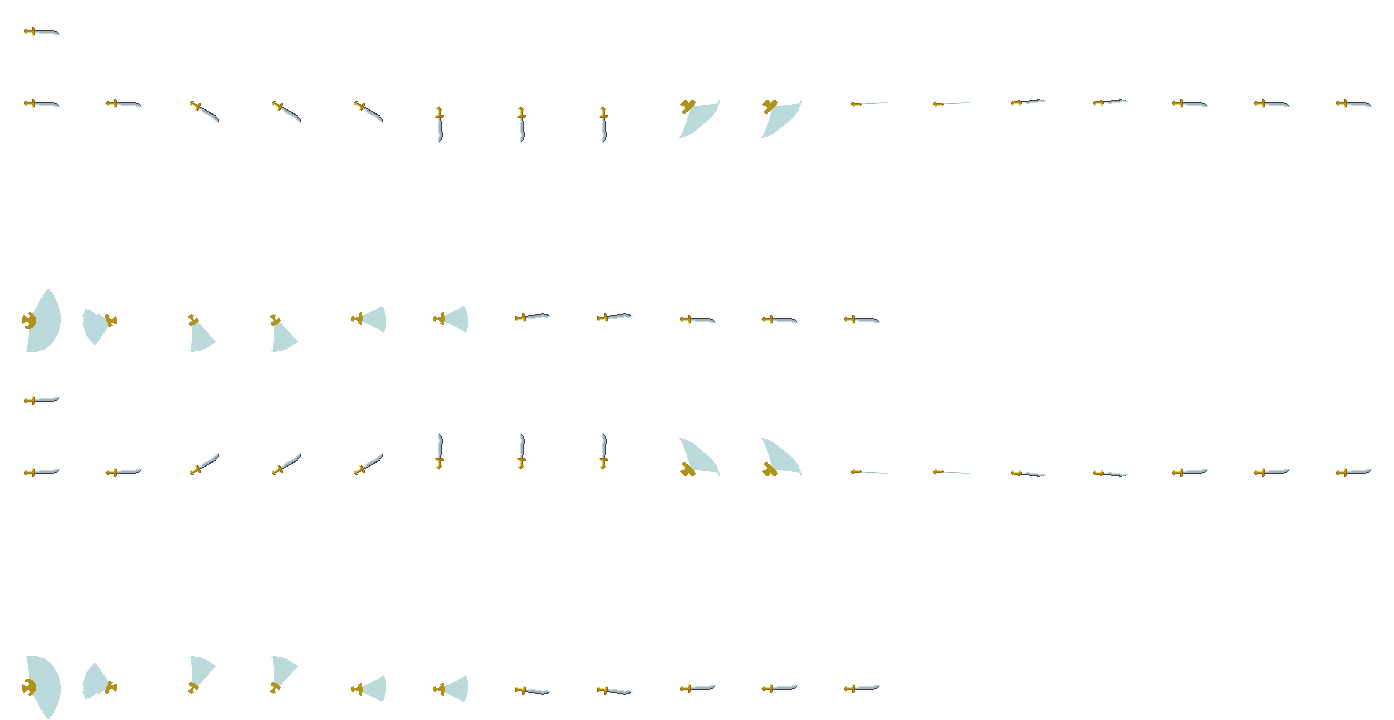
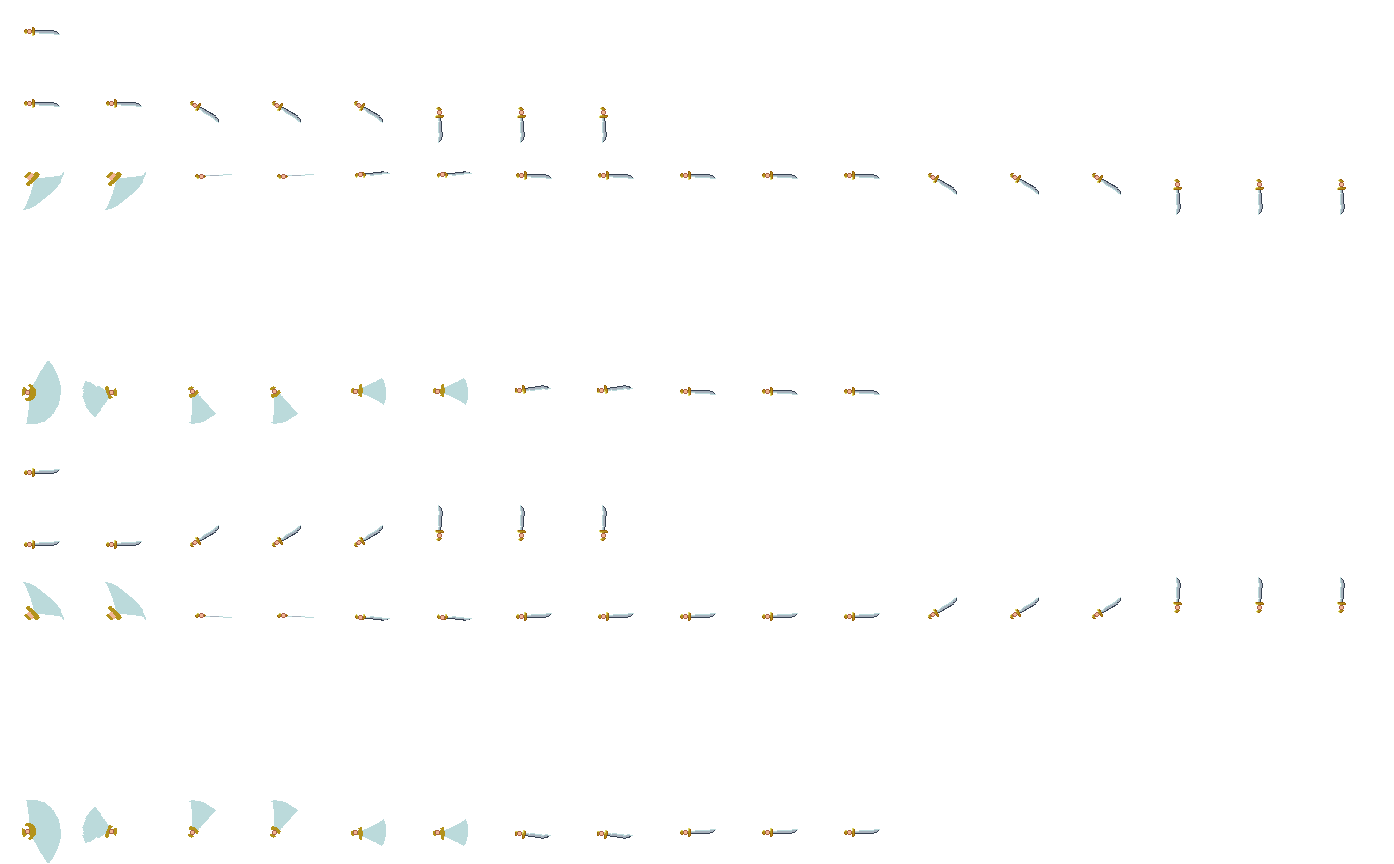
sword and hammer animations

diff --git a/Chronospace/src/main/java/ma/ac/emi/gamelogic/weapon/Weapon.java b/Chronospace/src/main/java/ma/ac/emi/gamelogic/weapon/Weapon.java
@@ -23,7 +23,7 @@ import ma.ac.emi.math.Vector3D;
 @Getter
 @Setter
 public class Weapon extends Entity{
-	private static final String[] ACTIONS = {"Idle", "Attacking", "Reload_Init", "Reload", "Reload_Finish", "Switching"};
+	private static final String[] ACTIONS = {"Idle", "Attacking_Init", "Attacking", "Reload_Init", "Reload", "Reload_Finish", "Switching"};
 	private static final String[] DIRECTIONS = {"Left", "Right"};
 	
 	private static final String TRIGGER_STOP = "Stop";
@@ -63,12 +63,19 @@ public class Weapon extends Entity{
 			for (String direction : DIRECTIONS) {
 				String stateName = action + "_" + direction;
 				AnimationState state = new AnimationState(stateName);
-				if(action.equals("Reload_Init") || action.equals("Reload_Finish") || action.equals("Switching")) state.setDoesLoop(false);
+				if(
+						action.equals("Attacking_Init") ||
+						action.equals("Reload_Init") || 
+						action.equals("Reload_Finish") || 
+						action.equals("Switching")
+					) 
+					state.setDoesLoop(false);
 				stateMachine.addAnimationState(state);
 			}
 		}
 		
-		addTransitions(TRIGGER_ATTACK, "Idle", "Attacking");
+		addTransitions(TRIGGER_ATTACK, "Idle", "Attacking_Init");
+		addTransitions(TRIGGER_ATTACK, "Attacking_Init", "Attacking");
 		addTransitions(TRIGGER_STOP, "Attacking", "Idle");
 		addTransitions(TRIGGER_RELOAD, "Idle", "Reload_Init");
 		addTransitions(TRIGGER_RELOAD, "Reload_Init", "Reload");
@@ -101,11 +108,14 @@ public class Weapon extends Entity{
 	@Override
 	public void setupAnimations() {
 		WeaponItemDefinition definition = (WeaponItemDefinition)(getWeaponItem().getItemDefinition());
-		spriteSheet = new SpriteSheet(AssetsLoader.getSprite(definition.getSpriteSheetPath()), definition.getSpriteWidth(), definition.getSpriteHeight());
+		WeaponItemDefinition.WeaponAnimationDetails animationDetails = definition.getAnimationDetails();
+		spriteSheet = new SpriteSheet(AssetsLoader.getSprite(animationDetails.spriteSheetPath), animationDetails.spriteWidth, animationDetails.spriteHeight);
 		if(spriteSheet.getSheet() == null) return;
 		
 		AnimationState idle_left = stateMachine.getAnimationStateByTitle("Idle_Left");
 		AnimationState idle_right = stateMachine.getAnimationStateByTitle("Idle_Right");
+		AnimationState attacking_init_left = stateMachine.getAnimationStateByTitle("Attacking_Init_Left");
+		AnimationState attacking_init_right = stateMachine.getAnimationStateByTitle("Attacking_Init_Right");
 		AnimationState attacking_left = stateMachine.getAnimationStateByTitle("Attacking_Left");
 		AnimationState attacking_right = stateMachine.getAnimationStateByTitle("Attacking_Right");
 		AnimationState reload_init_left = stateMachine.getAnimationStateByTitle("Reload_Init_Left");
@@ -117,96 +127,71 @@ public class Weapon extends Entity{
 		AnimationState switching_left = stateMachine.getAnimationStateByTitle("Switching_Left");
 		AnimationState switching_right = stateMachine.getAnimationStateByTitle("Switching_Right");
 
-		
-		for(Sprite sprite : spriteSheet.getAnimationRow(0, 1)) {
+		for(Sprite sprite : spriteSheet.getAnimationRow(0, animationDetails.idleLength)) {
 			idle_left.addFrame(sprite);
 		}
-		for(Sprite sprite : spriteSheet.getAnimationRow(5, 1)) {
+		for(Sprite sprite : spriteSheet.getAnimationRow(6, animationDetails.idleLength)) {
 			idle_right.addFrame(sprite);
 		}
-		for(Sprite sprite : spriteSheet.getAnimationRow(1, 8)) {
+		for(Sprite sprite : spriteSheet.getAnimationRow(1, animationDetails.attackingInitLength)) {
+			attacking_init_left.addFrame(sprite);
+		}
+		for(Sprite sprite : spriteSheet.getAnimationRow(7, animationDetails.attackingInitLength)) {
+			attacking_init_right.addFrame(sprite);
+		}
+		for(Sprite sprite : spriteSheet.getAnimationRow(2, animationDetails.attackingLength)) {
 			attacking_left.addFrame(sprite);
 		}
-		for(Sprite sprite : spriteSheet.getAnimationRow(6, 8)) {
+		for(Sprite sprite : spriteSheet.getAnimationRow(8, animationDetails.attackingLength)) {
 			attacking_right.addFrame(sprite);
 		}
-		for(Sprite sprite : spriteSheet.getAnimationRow(2, 12)) {
+		for(Sprite sprite : spriteSheet.getAnimationRow(3, animationDetails.reloadInitLength)) {
 			reload_init_left.addFrame(sprite);
 		}
-		for(Sprite sprite : spriteSheet.getAnimationRow(7, 12)) {
+		for(Sprite sprite : spriteSheet.getAnimationRow(9, animationDetails.reloadInitLength)) {
 			reload_init_right.addFrame(sprite);
 		}
-		for(Sprite sprite : spriteSheet.getAnimationRow(3, 4)) {
+		for(Sprite sprite : spriteSheet.getAnimationRow(4, animationDetails.reloadLength)) {
 			reload_left.addFrame(sprite);
 		}
-		for(Sprite sprite : spriteSheet.getAnimationRow(8, 4)) {
+		for(Sprite sprite : spriteSheet.getAnimationRow(10, animationDetails.reloadLength)) {
 			reload_right.addFrame(sprite);
 		}
-		for(Sprite sprite : spriteSheet.getAnimationRow(4, 12)) {
+		for(Sprite sprite : spriteSheet.getAnimationRow(5, animationDetails.reloadFinishLength)) {
 			reload_finish_left.addFrame(sprite);
 		}
-		for(Sprite sprite : spriteSheet.getAnimationRow(9, 12)) {
+		for(Sprite sprite : spriteSheet.getAnimationRow(11, animationDetails.reloadFinishLength)) {
 			reload_finish_right.addFrame(sprite);
 		}
 		
-		for(Sprite sprite : spriteSheet.getAnimationRow(4, 12)) {
+		for(Sprite sprite : spriteSheet.getAnimationRow(5, animationDetails.reloadFinishLength)) {
 			switching_left.addFrame(sprite);
 		}
-		for(Sprite sprite : spriteSheet.getAnimationRow(9, 12)) {
+		for(Sprite sprite : spriteSheet.getAnimationRow(11, animationDetails.reloadFinishLength)) {
 			switching_right.addFrame(sprite);
 		}
 		
-		/*
-		for(Sprite sprite : spriteSheet.getAnimationRow(0, 1)) {
-			idle_left.addFrame(sprite);
-		}
-		for(Sprite sprite : spriteSheet.getAnimationRow(5, 1)) {
-			idle_right.addFrame(sprite);
-		}
-		for(Sprite sprite : spriteSheet.getAnimationRow(1, 17)) {
-			attacking_left.addFrame(sprite);
-		}
-		for(Sprite sprite : spriteSheet.getAnimationRow(6, 17)) {
-			attacking_right.addFrame(sprite);
-		}
-		for(Sprite sprite : spriteSheet.getAnimationRow(2, 0)) {
-			reload_init_left.addFrame(sprite);
-		}
-		for(Sprite sprite : spriteSheet.getAnimationRow(7, 0)) {
-			reload_init_right.addFrame(sprite);
-		}
-		for(Sprite sprite : spriteSheet.getAnimationRow(3, 0)) {
-			reload_left.addFrame(sprite);
-		}
-		for(Sprite sprite : spriteSheet.getAnimationRow(8, 0)) {
-			reload_right.addFrame(sprite);
-		}
-		for(Sprite sprite : spriteSheet.getAnimationRow(4, 11)) {
-			reload_finish_left.addFrame(sprite);
-		}
-		for(Sprite sprite : spriteSheet.getAnimationRow(9, 11)) {
-			reload_finish_right.addFrame(sprite);
-		}
 		
-		for(Sprite sprite : spriteSheet.getAnimationRow(4, 11)) {
-			switching_left.addFrame(sprite);
-		}
-		for(Sprite sprite : spriteSheet.getAnimationRow(9, 11)) {
-			switching_right.addFrame(sprite);
-		}
-		*/
 	}
     
     public void attack() {
         if (getAttackStrategy() != null) {
-            getAttackStrategy().execute(this);
-            if(isInState("Idle")) stateMachine.trigger(TRIGGER_ATTACK);
+            if(isInState("Idle")) {
+            	stateMachine.trigger(TRIGGER_ATTACK);
+            }
+        	if(isInState("Attacking")) getAttackStrategy().execute(this);
+
         }
     }
     
 
 	public void stopAttacking() {
-		if(isInState("Attacking")) stateMachine.trigger(TRIGGER_STOP);
+		if(isInState("Attacking_Init")) {
+			stateMachine.trigger(TRIGGER_ATTACK);
+			stateMachine.trigger(TRIGGER_STOP);
+		}
+		else if(isInState("Attacking")) stateMachine.trigger(TRIGGER_STOP);
+
 	}
     
     public void draw(Graphics g) {
@@ -219,6 +204,8 @@ public class Weapon extends Entity{
         if(stateMachine.getCurrentAnimationState() != null) {
         	BufferedImage sprite = stateMachine.getCurrentAnimationState().getCurrentFrameSprite().getSprite();
         	g.drawImage(sprite, (int)(getBearer().getWeaponXOffset()-sprite.getWidth()/2), (int)(-sprite.getHeight()/2), null);
+        	g.drawString(String.valueOf(stateMachine.getCurrentAnimationState().getCurrentFrameIndex()), 0, - 30);
+        	if(stateMachine.getCurrentAnimationState().getTitle().equals("Attacking_Right")) System.out.println(String.valueOf(stateMachine.getCurrentAnimationState().getCurrentFrameIndex()));
         }else {
         	g.setColor(Color.gray);
         	g.fillRect(0, 0, 16, 8);
@@ -228,8 +215,15 @@ public class Weapon extends Entity{
     
     public void update(double step) {
     	WeaponItemDefinition def = (WeaponItemDefinition)(weaponItem.getItemDefinition());
-    	stateMachine.getAnimationStateByTitle("Attacking_Right").setPlaySpeed(17*def.getAttackSpeed()/24);
-    	stateMachine.getAnimationStateByTitle("Attacking_Left").setPlaySpeed(17*def.getAttackSpeed()/24);
+//    	System.out.println("Atttack animation length: " + def.getAnimationDetails().attackingLength);
+//    	System.out.println("Weapon attack speed: " + def.getAttackSpeed());
+//    	System.out.println("Play speed: " + def.getAnimationDetails().attackingLength*def.getAttackSpeed()/24);
+    	double playSpeed = def.getAnimationDetails().attackingLength*def.getAttackSpeed()/24;
+    	stateMachine.getAnimationStateByTitle("Attacking_Right").setPlaySpeed(playSpeed);
+    	stateMachine.getAnimationStateByTitle("Attacking_Left").setPlaySpeed(playSpeed);
+//    	stateMachine.getAnimationStateByTitle("Attacking_Init_Left").setPlaySpeed(playSpeed);
+//    	stateMachine.getAnimationStateByTitle("Attacking_Init_Right").setPlaySpeed(playSpeed);
+    	
     	if(isInState("Reload_Init"))
     		if(stateMachine.getCurrentAnimationState().isAnimationDone()) {
     			stateMachine.getCurrentAnimationState().reset();
@@ -246,16 +240,25 @@ public class Weapon extends Entity{
     			stateMachine.trigger(TRIGGER_STOP);
 
     		}
+    	if(isInState("Attacking_Init"))
+    		if(stateMachine.getCurrentAnimationState().isAnimationDone()) {
+    			stateMachine.getCurrentAnimationState().reset();
+    			stateMachine.trigger(TRIGGER_ATTACK);
+    			stateMachine.getCurrentAnimationState().reset();
+    			
+    		}
     			
     	
         setPos(getBearer().getPos());
         setTsla(getTsla() + step);
         
         if (getAmmo() == 0 && ((WeaponItemDefinition)weaponItem.getItemDefinition()).getMagazineSize() != 0) {
-        	System.out.println("ammo == 0");
         	if(!isInState("Reload")) {
-            	if(!isInState("Idle")) stateMachine.trigger(TRIGGER_STOP);
-            	stateMachine.trigger(TRIGGER_RELOAD);
+        		if(stateMachine.getCurrentAnimationState().isAnimationDone()) {
+        			stateMachine.getCurrentAnimationState().reset();
+        			if(!isInState("Idle")) stateMachine.trigger(TRIGGER_STOP);
+        			stateMachine.trigger(TRIGGER_RELOAD);
+        		}
         	}
 
             if(stateMachine.getCurrentAnimationState().getTitle().equals("Reload_Left") ||
@@ -291,7 +294,7 @@ public class Weapon extends Entity{
 
     public boolean isInState(String action) {
 		String currentState = stateMachine.getCurrentAnimationState().getTitle();
-		return currentState.startsWith(action + "_");
+		return currentState.equals(action+"_Left") || currentState.equals(action+"_Right");
 	}
     
     private boolean isLooking(String dir) {
@@ -320,6 +323,10 @@ public class Weapon extends Entity{
 			stateMachine.trigger(TRIGGER_STOP);
 		}
 		stateMachine.trigger(TRIGGER_SWITCH);
+	}
+	
+	public boolean isReloadingAnimation() {
+		return isInState("Reload") || isInState("Reload_Init") || isInState("Reload_Finish");
 	}
 
 

diff --git a/Chronospace/src/main/java/ma/ac/emi/gamelogic/shop/WeaponItemDefinition.java b/Chronospace/src/main/java/ma/ac/emi/gamelogic/shop/WeaponItemDefinition.java
@@ -7,9 +7,6 @@ import ma.ac.emi.gamelogic.weapon.Weapon;
 @Setter
 @ToString
 public class WeaponItemDefinition extends ItemDefinition implements Cloneable{
-	private String spriteSheetPath;
-	private int spriteWidth;
-	private int spriteHeight;
     private String attackStrategy;
     private double damage;
     private double range;
@@ -17,6 +14,8 @@ public class WeaponItemDefinition extends ItemDefinition implements Cloneable{
     private String projectileId;
     private double reloadingTime;
     private int magazineSize;
+    
+    private WeaponAnimationDetails animationDetails;
 
 	@Override
 	public ShopItem getItem() {
@@ -50,9 +49,8 @@ public class WeaponItemDefinition extends ItemDefinition implements Cloneable{
         this.projectileId = other.projectileId;
         this.reloadingTime = other.reloadingTime;
         this.magazineSize = other.magazineSize;
-        this.spriteSheetPath = other.spriteSheetPath;
-        this.spriteWidth = other.spriteWidth;
-        this.spriteHeight = other.spriteHeight;
+        
+        this.animationDetails = other.animationDetails;
     }
     
     
@@ -61,5 +59,38 @@ public class WeaponItemDefinition extends ItemDefinition implements Cloneable{
 		return new WeaponItemDefinition(this);
     	
     }
+    
+    public static class WeaponAnimationDetails{
+    	public String spriteSheetPath;
+		public int spriteWidth;
+    	public int spriteHeight;
+    	public int idleLength, attackingInitLength, attackingLength, reloadInitLength, reloadLength, reloadFinishLength;
+    	
 
+    	public WeaponAnimationDetails(String spriteSheetPath, int spriteWidth, int spriteHeight, int idleLength,
+				int attackingInitLength, int attackingLength, int reloadInitLength, int reloadLength, int reloadFinishLength) {
+			this.spriteSheetPath = spriteSheetPath;
+			this.spriteWidth = spriteWidth;
+			this.spriteHeight = spriteHeight;
+			this.idleLength = idleLength;
+			this.attackingInitLength = attackingInitLength;
+			this.attackingLength = attackingLength;
+			this.reloadInitLength = reloadInitLength;
+			this.reloadLength = reloadLength;
+			this.reloadFinishLength = reloadFinishLength;
+		}
+    	
+    	public WeaponAnimationDetails(WeaponAnimationDetails details) {
+    		this(details.spriteSheetPath,
+    			details.spriteWidth,
+    			details.spriteHeight,
+    			details.idleLength,
+    			details.attackingInitLength,
+    			details.attackingLength,
+    			details.reloadInitLength,
+    			details.reloadLength,
+    			details.reloadFinishLength
+    		);
+    	}
+    }
 }

diff --git a/Chronospace/src/main/java/ma/ac/emi/gamelogic/weapon/RangeAOEStrategy.java b/Chronospace/src/main/java/ma/ac/emi/gamelogic/weapon/RangeAOEStrategy.java
@@ -8,7 +8,7 @@ public class RangeAOEStrategy implements AttackStrategy {
     @Override
     public void execute(Weapon weapon) {
     	WeaponItemDefinition definition = ((WeaponItemDefinition) weapon.getWeaponItem().getItemDefinition());
-        if (weapon.getTsla() >= 1/definition.getAttackSpeed() && weapon.getAmmo()>0) {
+        if (weapon.getTsla() >= 1/definition.getAttackSpeed()) {
         	ProjectileAOE projectile = (ProjectileAOE) ProjectileAOEFactory.getInstance().createProjectile(
         			definition.getProjectileId(),
         			weapon.getPos(),
@@ -16,8 +16,9 @@ public class RangeAOEStrategy implements AttackStrategy {
         			weapon
         		);
             weapon.getAttackObjectManager().addObject(projectile);
-            weapon.setAmmo(weapon.getAmmo() - 1);
+            weapon.consumeAmmo();
             weapon.setTsla(0);
+            weapon.getStateMachine().getCurrentAnimationState().reset();
         }
     }
 }

diff --git a/Chronospace/src/main/java/ma/ac/emi/gamelogic/weapon/RangeSingleHitStrategy.java b/Chronospace/src/main/java/ma/ac/emi/gamelogic/weapon/RangeSingleHitStrategy.java
@@ -8,7 +8,7 @@ public class RangeSingleHitStrategy implements AttackStrategy {
     @Override
     public void execute(Weapon weapon) {
     	WeaponItemDefinition definition = ((WeaponItemDefinition) weapon.getWeaponItem().getItemDefinition());
-        if (weapon.getTsla() >= 1/definition.getAttackSpeed() && !weapon.isInState("Reload")) {
+        if (weapon.getTsla() >= 1/definition.getAttackSpeed()) {
         	ProjectileSingleHit projectile = (ProjectileSingleHit) ProjectileSingleHitFactory.getInstance().createProjectile(
         			definition.getProjectileId(),
         			weapon.getPos(),
@@ -18,6 +18,7 @@ public class RangeSingleHitStrategy implements AttackStrategy {
             weapon.getAttackObjectManager().addObject(projectile);
             weapon.consumeAmmo();
             weapon.setTsla(0);
+            weapon.getStateMachine().getCurrentAnimationState().reset();
         }
     }
 }

diff --git a/Chronospace/src/main/java/ma/ac/emi/fx/AnimationState.java b/Chronospace/src/main/java/ma/ac/emi/fx/AnimationState.java
@@ -55,7 +55,8 @@ public class AnimationState {
 			
 			if (!isLastFrame || doesLoop) {
 				currentFrameIndex = (currentFrameIndex + 1) % frames.size();
-				if(playSpeed > 0) timeTracker = frames.get(currentFrameIndex).getFrameTime()/playSpeed;
+				if(playSpeed > 0) timeTracker += frames.get(currentFrameIndex).getFrameTime()/playSpeed;
+
 			}
 		}
 	}
@@ -68,7 +69,6 @@ public class AnimationState {
 	}
 	
 	public boolean isAnimationDone() {
-		if(doesLoop) return false;
 		return currentFrameIndex == frames.size() - 1;
 	}
 	

diff --git a/Chronospace/src/main/java/ma/ac/emi/gamelogic/wave/WaveManager.java b/Chronospace/src/main/java/ma/ac/emi/gamelogic/wave/WaveManager.java
@@ -37,7 +37,7 @@ public class WaveManager {
         this.waves = new ArrayList<>();
         this.currentWaveNumber = 0;
         this.state = WaveState.WAITING;
-        this.waveDelay = 30;
+        this.waveDelay = 300;
         this.waveTimer = 0;
         
         this.context = context;

diff --git a/Chronospace/src/main/java/ma/ac/emi/gamelogic/weapon/MeleeSingleHitStrategy.java b/Chronospace/src/main/java/ma/ac/emi/gamelogic/weapon/MeleeSingleHitStrategy.java
@@ -17,6 +17,7 @@ public class MeleeSingleHitStrategy implements AttackStrategy {
         		);
             weapon.getAttackObjectManager().addObject(projectile);
             weapon.setTsla(0);
+            weapon.getStateMachine().getCurrentAnimationState().reset();
         }
     }
 }

diff --git a/Chronospace/src/main/java/ma/ac/emi/gamelogic/weapon/MeleeAOEStrategy.java b/Chronospace/src/main/java/ma/ac/emi/gamelogic/weapon/MeleeAOEStrategy.java
@@ -17,6 +17,7 @@ public class MeleeAOEStrategy implements AttackStrategy {
         		);
             weapon.getAttackObjectManager().addObject(projectile);
             weapon.setTsla(0);
+            weapon.getStateMachine().getCurrentAnimationState().reset();
         }
     }
 }
